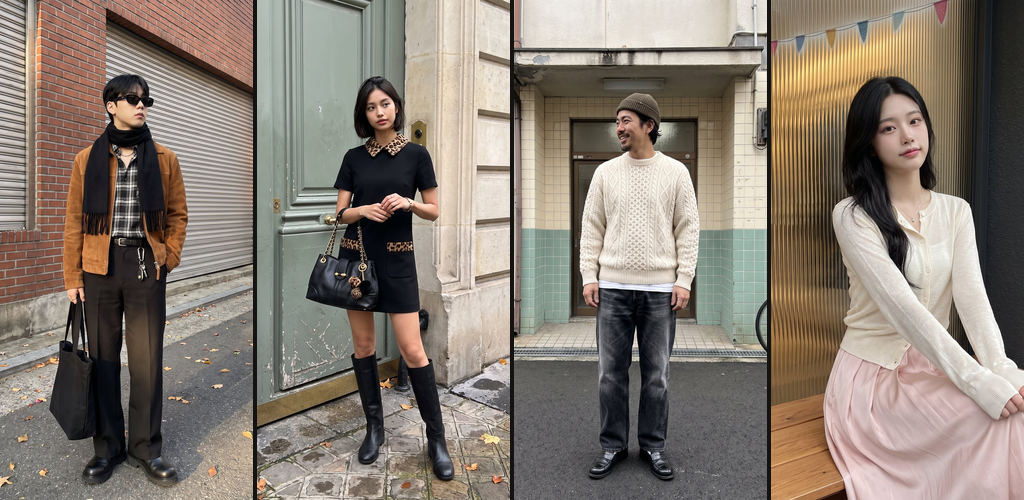
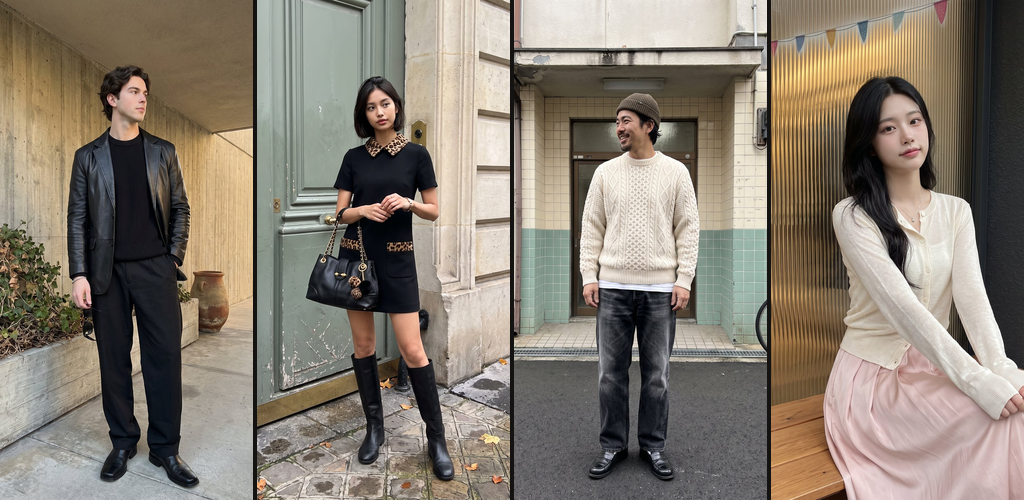
store: Play feature graphic opens with the leather-jacket look

Changed region(s): [[0.0, 0.0, 0.25, 1.0]]

diff --git a/resources/app-store/README.md b/resources/app-store/README.md
@@ -159,5 +159,5 @@ outstretched arm doesn't pull the crop.
 **No wordmark on either asset.** Both stores set the icon, which is the
 wordmark, and the app name right beside the image, so a logo in it says
 "drape" twice. Google also asks to keep text and logos off the edges. The
-Play graphic is the header's middle four (brown, black, cream, cream/pink),
-so the two stores read as one campaign.
+Play graphic is four of the header's six (leather jacket, black dress, cream
+knit, cream cardigan; owner's pick), so the two stores read as one campaign.
